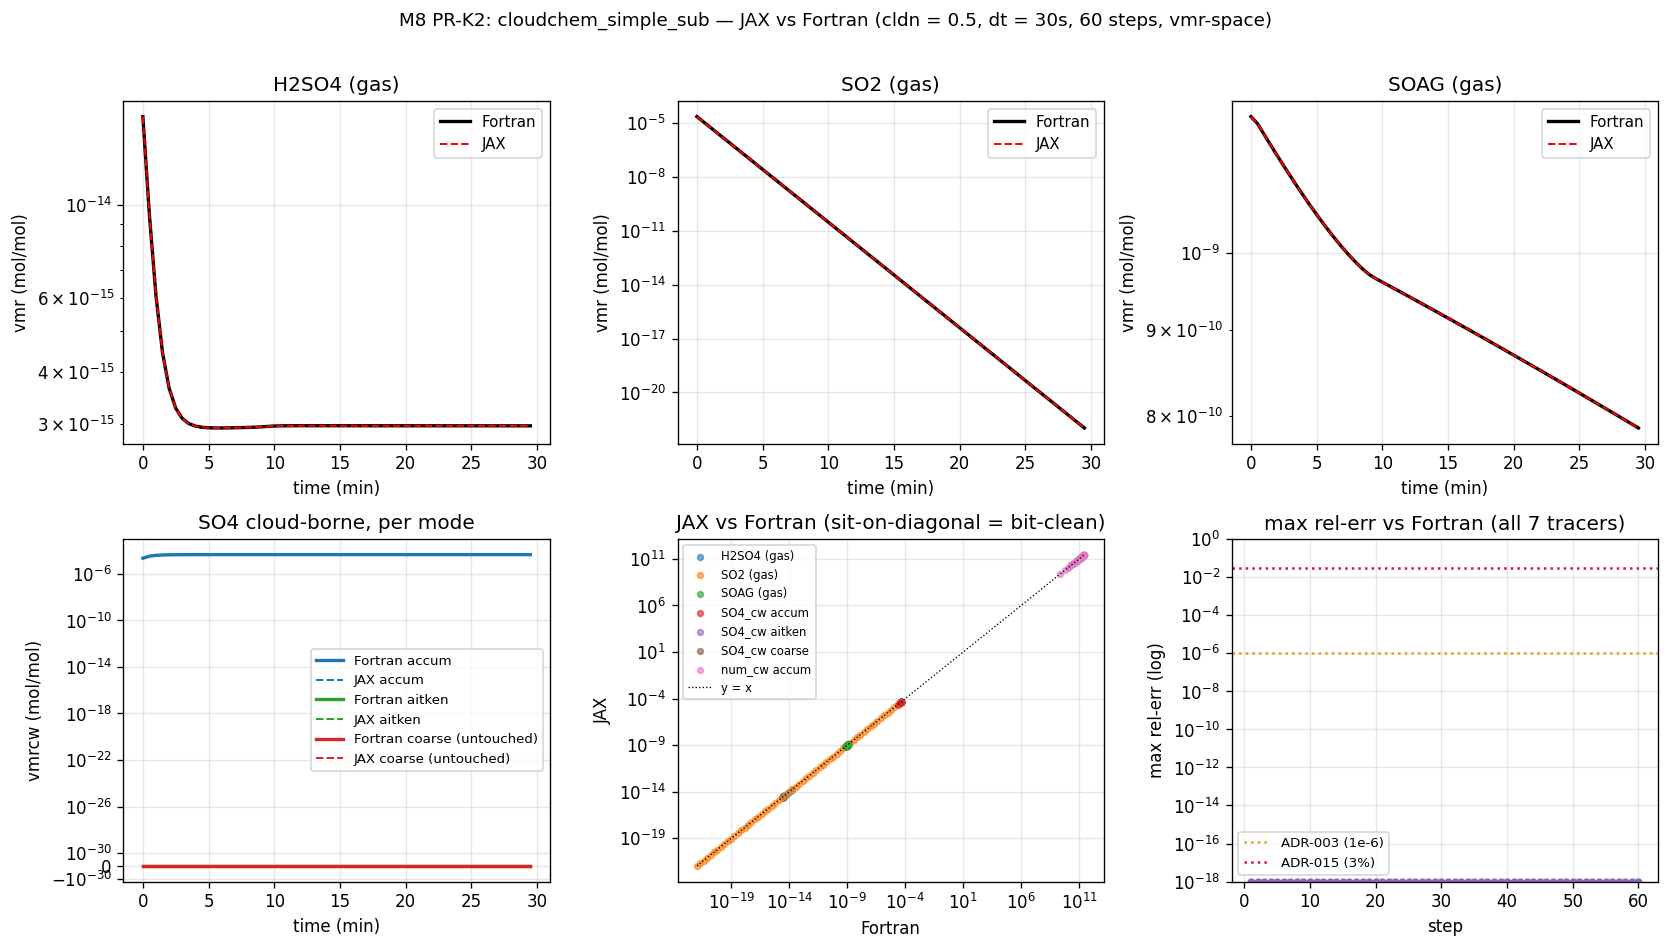
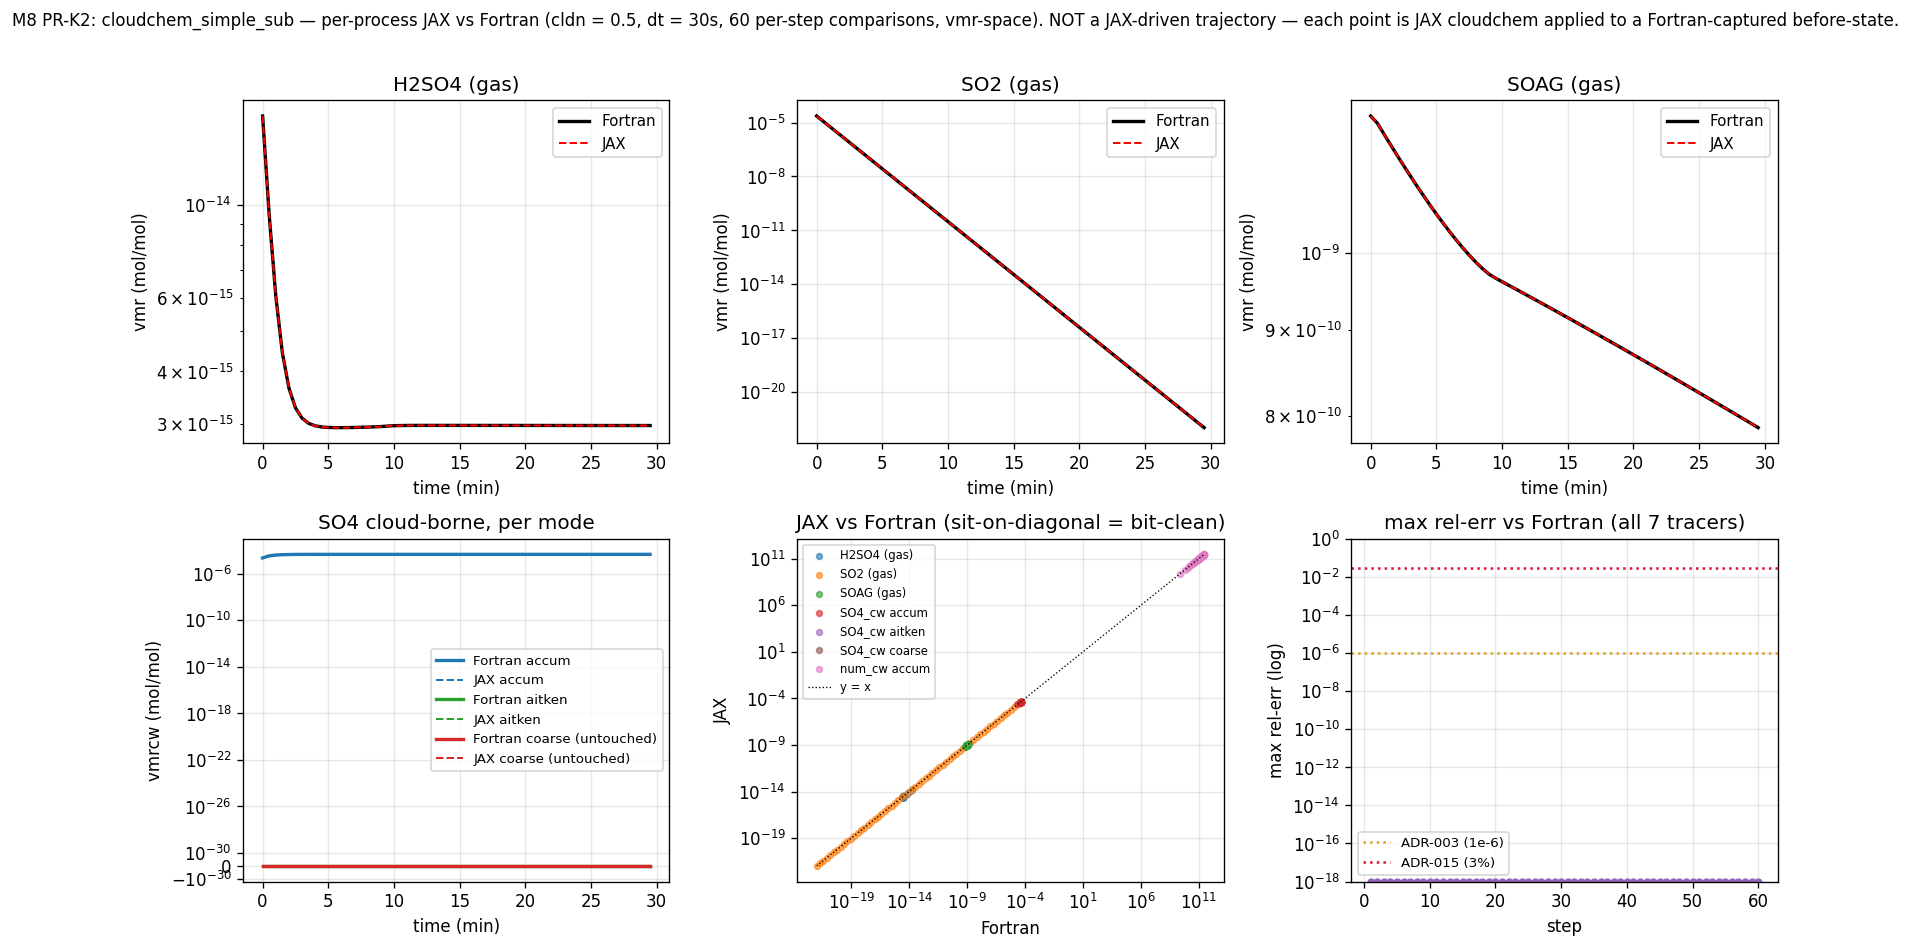
M8 (PR-K2): review fixups (5 items)
Folding in PR #55 review feedback. No scope change.

1. test_cloudchem_soag_unmodified rewritten as test_cloudchem_jax_soag
   _unmodified — now runs JAX cloudchem on the before-state and asserts
   the JAX output's SOAG slot is byte-identical to the input (catches a
   hypothetical bug where the JAX port touched SOAG). Fortran-fixture
   sanity-anchor retained as a secondary check.
2. data.py: comment on VMR_NH3 explaining it's defined-for-completeness,
   not-currently-consumed (gated on VMR_NH3 >= 0 if NH3 is ever added).
3. data.py: module-load assertion catches drift between PCNST_H2SO4_GAS
   / PCNST_SOAG_GAS and their LMAP_GAS entries. If a future MAM4 config
   shifts either slot, both paths must update; the assert catches a
   single-side update.
5. Figure suptitle clarified: "per-process JAX vs Fortran" + "60 per-
   step comparisons" + an explicit "NOT a JAX-driven trajectory" note.
   Prevents misreading as a trajectory comparison.
6. plot script: one-line comment in the scatter section explaining the
   zero-mask (vmrcw[SO4_cw_accum/aitken] = 0 at step 0 → matplotlib
   silently drops log-of-zero; expected count < 60 × 7 = 420).

Item 4 (jnp.minimum unconditional compute) flagged-only — JAX can't
conditionally skip work the way Fortran cycle does. No action.
Item 7 (rel-err "near the floor" PR-body wording) — addressed via
PR body update.

Test suite: 75 passed, 0 failed.

diff --git a/tests/test_cloudchem.py b/tests/test_cloudchem.py
@@ -100,15 +100,38 @@ def test_cloudchem_cycle_threshold_zeros_tendencies():
         np.testing.assert_array_equal(np.asarray(vmrcw_out), np.asarray(vmrcw_in))
 
 
-def test_cloudchem_soag_unmodified(cloudchem_fixture):
-    """SOAG gas is not touched by cloudchem (negative-control tracer).
+def test_cloudchem_jax_soag_unmodified(cloudchem_fixture):
+    """JAX cloudchem leaves SOAG byte-identical (negative-control tracer).
 
-    The fixture captures step 0 through step 59 in the post-cloudchem
-    state. SOAG sits at vmr[..., VMR_SOAG] and should be byte-identical
-    between cloudchem_before and cloudchem_after for every step.
+    Cloudchem doesn't read or write SOAG; the JAX port must preserve
+    SOAG bit-for-bit. We verify this directly by running JAX on each
+    step's before-state and asserting JAX's output SOAG equals the
+    input SOAG. Catches a hypothetical bug where the JAX port
+    accidentally touched the SOAG slot (e.g., via a wrong index
+    constant); ``test_cloudchem_matches_fortran_per_step`` would also
+    catch it, but this test isolates the failure mode.
+
+    Also asserts (as a sanity-anchor) that the Fortran fixture itself
+    has identical SOAG before/after, confirming the Fortran reference
+    matches the test's expectation.
     """
     from mam4_jax import data
     before, after = cloudchem_fixture
-    soag_before = before["vmr"][:, :, :, data.VMR_SOAG]
-    soag_after  = after["vmr"][:,  :, :, data.VMR_SOAG]
-    np.testing.assert_array_equal(soag_before, soag_after)
+    cldn = jnp.full((1, 1), CLDN_FIXTURE)
+
+    # JAX-side: cloudchem must preserve SOAG exactly.
+    for step in range(N_STEPS):
+        vmr_in   = jnp.asarray(before["vmr"][step])
+        vmrcw_in = jnp.asarray(before["vmrcw"][step])
+        vmr_out, _ = cloudchem_simple_sub(vmr_in, vmrcw_in, cldn, DT_FIXTURE)
+        np.testing.assert_array_equal(
+            np.asarray(vmr_out[..., data.VMR_SOAG]),
+            np.asarray(vmr_in[..., data.VMR_SOAG]),
+            err_msg=f"JAX cloudchem touched SOAG at step {step}",
+        )
+
+    # Sanity-anchor: Fortran fixture should also show no SOAG change.
+    np.testing.assert_array_equal(
+        before["vmr"][:, :, :, data.VMR_SOAG],
+        after["vmr"][:,  :, :, data.VMR_SOAG],
+    )

diff --git a/mam4_jax/data.py b/mam4_jax/data.py
@@ -719,10 +719,22 @@ LPTR_NH4_CW_AMODE: tuple[int, ...] = _lookup_cw_amode("ammonium")
 VMR_H2SO4: int = _to_vmr_slot(PCNST_H2SO4_GAS)
 #: vmr slot of SO2 gas.
 VMR_SO2:   int = _to_vmr_slot(PCNST_SO2_GAS)
-#: vmr slot of NH3 gas (-1 if absent).
+#: vmr slot of NH3 gas. ``-1`` in MAM4-MOM (NH3 absent). Defined for
+#: forward-compatibility: if a future MAM4 config registers NH3, the
+#: cloudchem NH3 → NH4 branch (currently omitted) can be enabled by
+#: gating on ``VMR_NH3 >= 0`` without a data.py change. Not consumed
+#: by any current call site.
 VMR_NH3:   int = _to_vmr_slot(PCNST_NH3_GAS)
 #: vmr slot of SOAG gas.
 VMR_SOAG:  int = _to_vmr_slot(PCNST_SOAG_GAS)
+
+# Cross-check: PCNST_H2SO4_GAS and PCNST_SOAG_GAS duplicate LMAP_GAS's
+# entries (amicphys's gas list). If a future MAM4 config shifts either,
+# both paths must update. Module-load assertion catches drift early.
+assert int(LMAP_GAS[0]) == PCNST_SOAG_GAS, \
+    f"LMAP_GAS[0] = {int(LMAP_GAS[0])} drifted from PCNST_SOAG_GAS = {PCNST_SOAG_GAS}"
+assert int(LMAP_GAS[1]) == PCNST_H2SO4_GAS, \
+    f"LMAP_GAS[1] = {int(LMAP_GAS[1])} drifted from PCNST_H2SO4_GAS = {PCNST_H2SO4_GAS}"
 
 #: Per-mode vmrcw slot of cloud-borne aerosol number.
 VMRCW_NUM: tuple[int, ...] = tuple(_to_vmr_slot(s) for s in NUMPTRCW_AMODE)

diff --git a/scripts/plot_cloudchem_residuals.py b/scripts/plot_cloudchem_residuals.py
@@ -121,6 +121,12 @@ def main() -> None:
     ax.legend(loc="best", fontsize=8)
 
     # ----- Row 2 col 1: scatter, all 7 tracers (JAX y vs Fortran x)
+    # Note: zero-valued points are masked from the axis-range computation
+    # (a value of 0 can't be plotted on a log-log axis). Most notably,
+    # vmrcw[SO4_cw_accum / aitken] is 0 at the first fixture step (before
+    # cloudchem fires); those points are dropped from the diagonal bounds
+    # but still scattered (matplotlib silently drops the log-of-zero ones).
+    # Expected on-screen point count ≈ 60 × 7 − (zero entries) < 420.
     ax = axes[1, 1]
     cmap = plt.cm.tab10
     all_min, all_max = np.inf, -np.inf
@@ -173,10 +179,12 @@ def main() -> None:
     ax.legend(loc="best", fontsize=8)
 
     fig.suptitle(
-        f"M8 PR-K2: cloudchem_simple_sub — JAX vs Fortran "
+        f"M8 PR-K2: cloudchem_simple_sub — per-process JAX vs Fortran "
         f"(cldn = {CLDN_FIXTURE}, dt = {DT_FIXTURE:.0f}s, "
-        f"{N_STEPS} steps, vmr-space)",
-        fontsize=11,
+        f"{N_STEPS} per-step comparisons, vmr-space). "
+        f"NOT a JAX-driven trajectory — each point is JAX cloudchem "
+        f"applied to a Fortran-captured before-state.",
+        fontsize=10,
     )
     fig.tight_layout(rect=(0, 0, 1, 0.97))
 